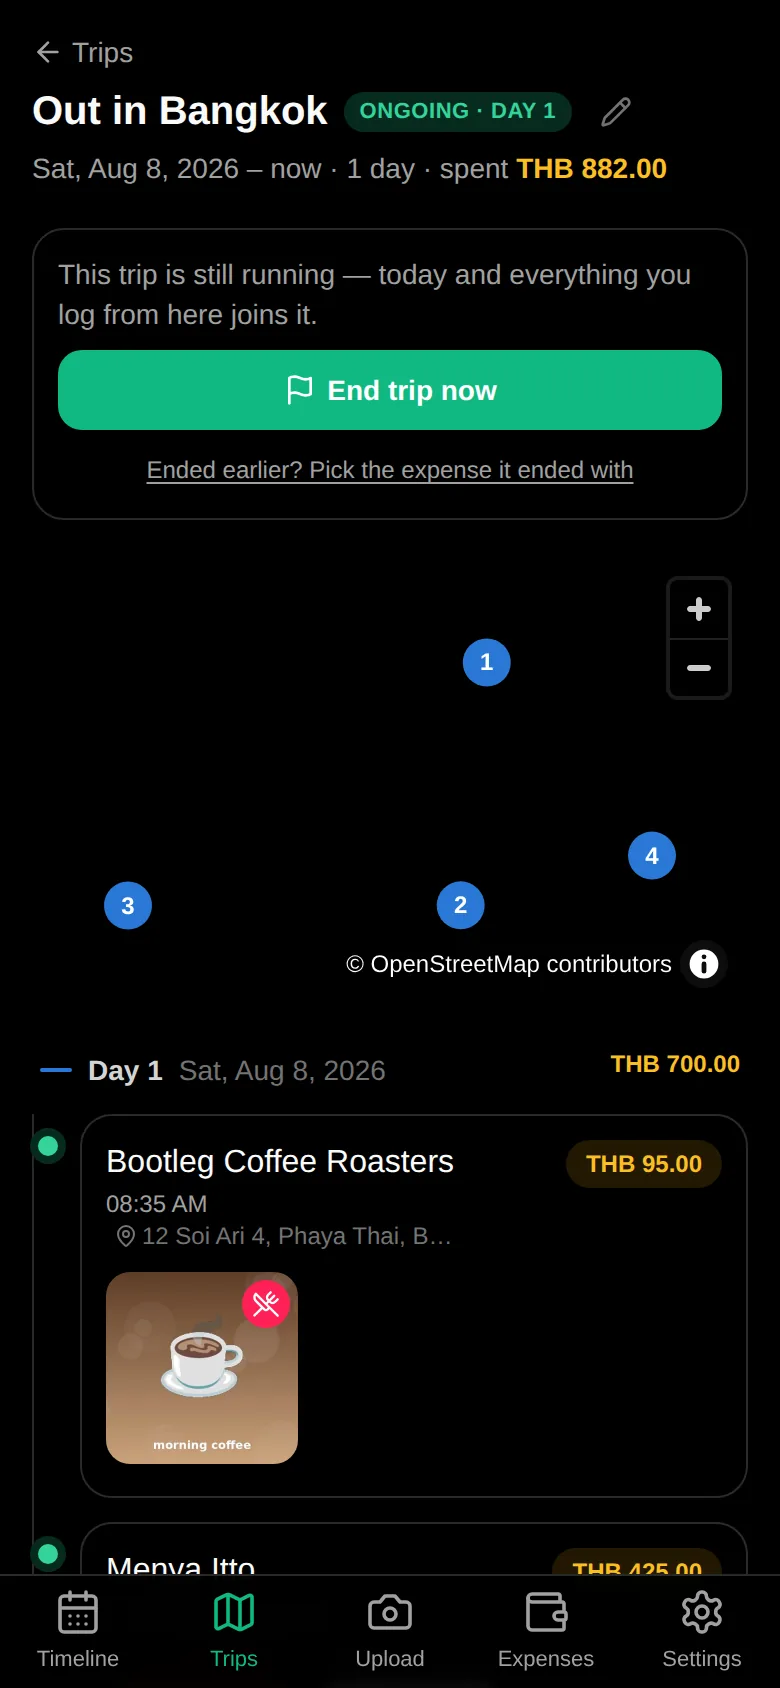
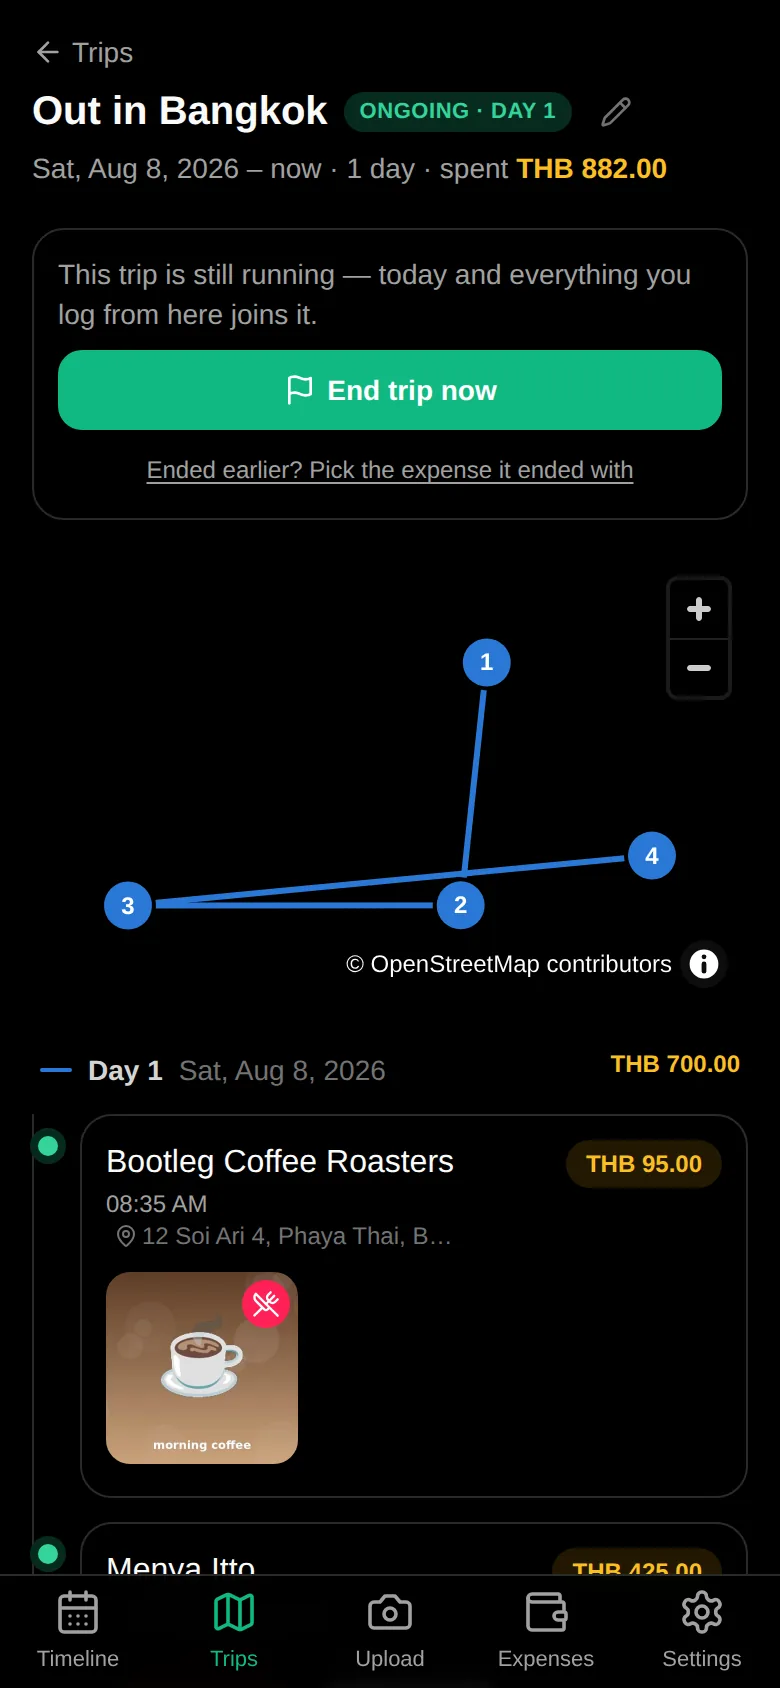
fix(frontend): draw day routes without waiting for basemap tiles
The route layers were added on the map's `load` event, which fires only after
the basemap tiles have downloaded as well. Against a slow or unreachable tile
server the lines never appeared — the markers and legend were there, so a day
looked like unconnected dots.

They only need the style, which is an inline object, so `style.load` is the
right event. Measured with the tile requests left hanging: the day-1 route
went from absent to drawn, and the trip screenshots show their routes again.

Claude-Session: https://claude.ai/code/session_014YEvkqYZUDPBu6PXPqUyeh

Changed region(s): [[0.1846, 0.4313, 0.8, 0.5545], [0.6154, 0.4005, 0.6462, 0.4313]]

diff --git a/frontend/src/components/MapView.tsx b/frontend/src/components/MapView.tsx
@@ -87,7 +87,10 @@ export function MapView({ days, className }: { days: MapDay[]; className?: strin
     }
     map.addControl(new maplibregl.NavigationControl({ showCompass: false }));
 
-    map.on('load', () => {
+    // 'style.load', not 'load': the latter also waits for the basemap tiles to
+    // arrive, so a slow or unreachable tile server holds back the routes — they
+    // need only the style, which is the inline object above.
+    map.on('style.load', () => {
       if (dark) {
         for (const [property, value] of Object.entries(DARK_BASEMAP_PAINT)) {
           map.setPaintProperty('osm', property as 'raster-saturation', value);
